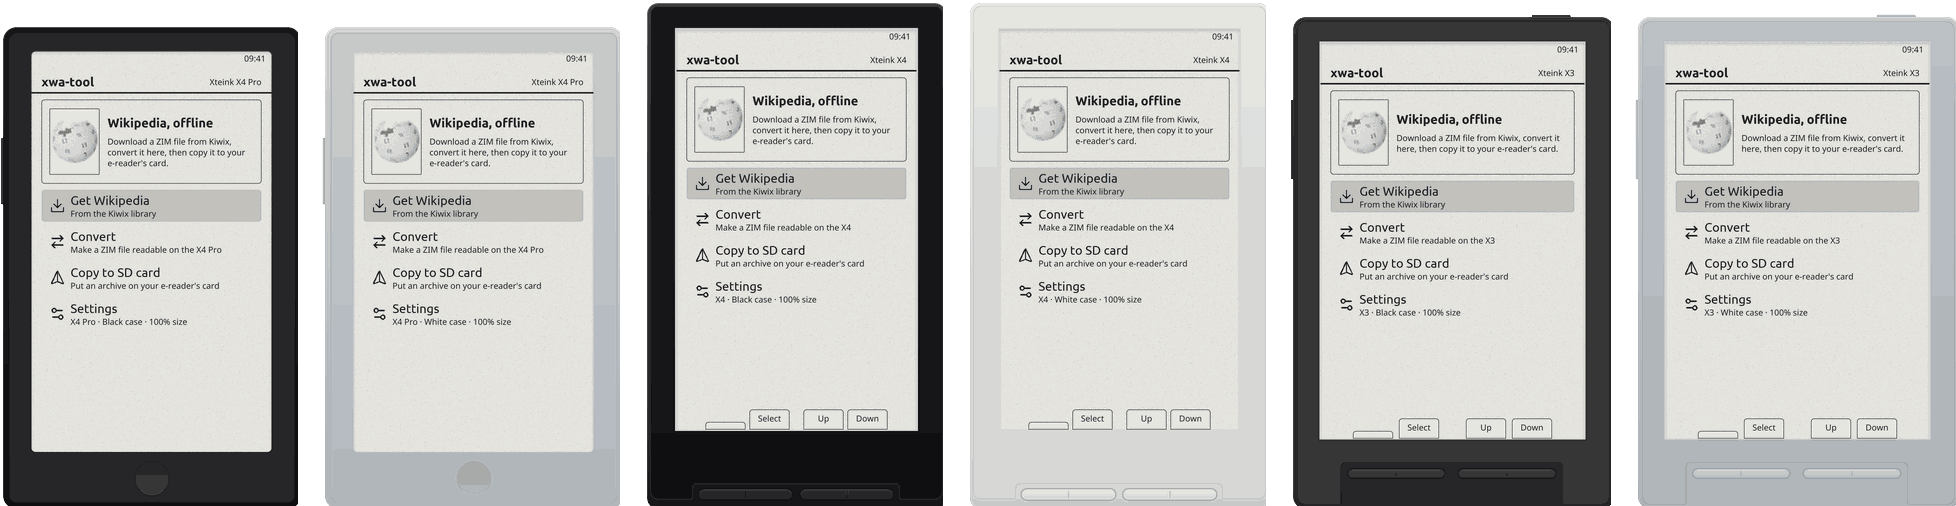
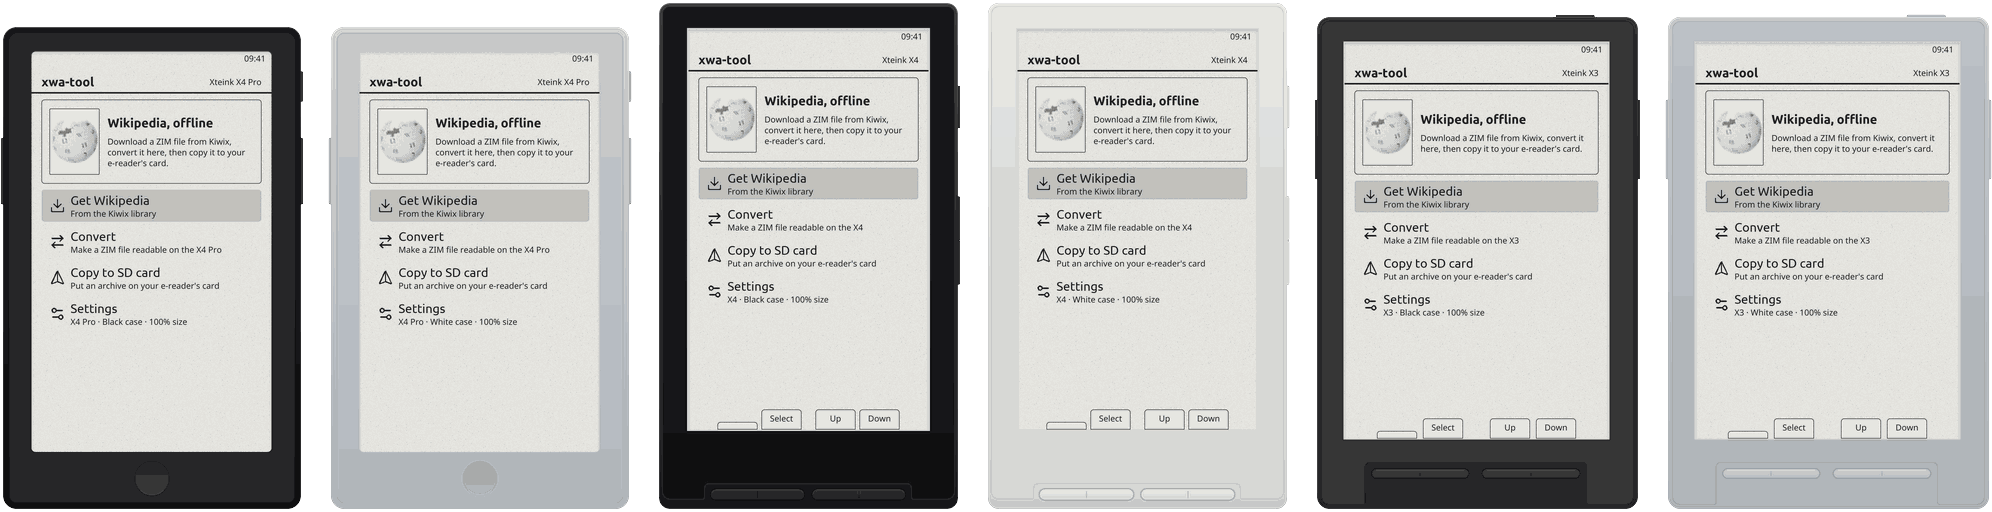
Draw the README pictures at the window's full size
The screenshot test drew each screen at the case's size, but the window
is 6 pixels larger on every side to hold the keys that stand out of the
case, so the pictures lost the case's right and bottom edges and the
keys on the right. It now draws the whole window.

Claude-Session: https://claude.ai/code/session_01Uc8kkQTUSaSZzDHrcCb4vN

diff --git a/crates/xwa-gui/src/tests.rs b/crates/xwa-gui/src/tests.rs
@@ -459,7 +459,7 @@ fn snap(app: &App, dir: &Path, name: &str) {
         default_font: eink::UI,
         ..iced::Settings::default()
     };
-    let mut sim = iced_test::Simulator::with_size(settings, app.spec().body, app.view());
+    let mut sim = iced_test::Simulator::with_size(settings, app.spec().window(), app.view());
     let snapshot = sim.snapshot(&crate::eink_theme()).expect("drawn");
     // The snapshot is written only where none is; clear the old one first.
     for renderer in ["tiny-skia", "wgpu"] {
